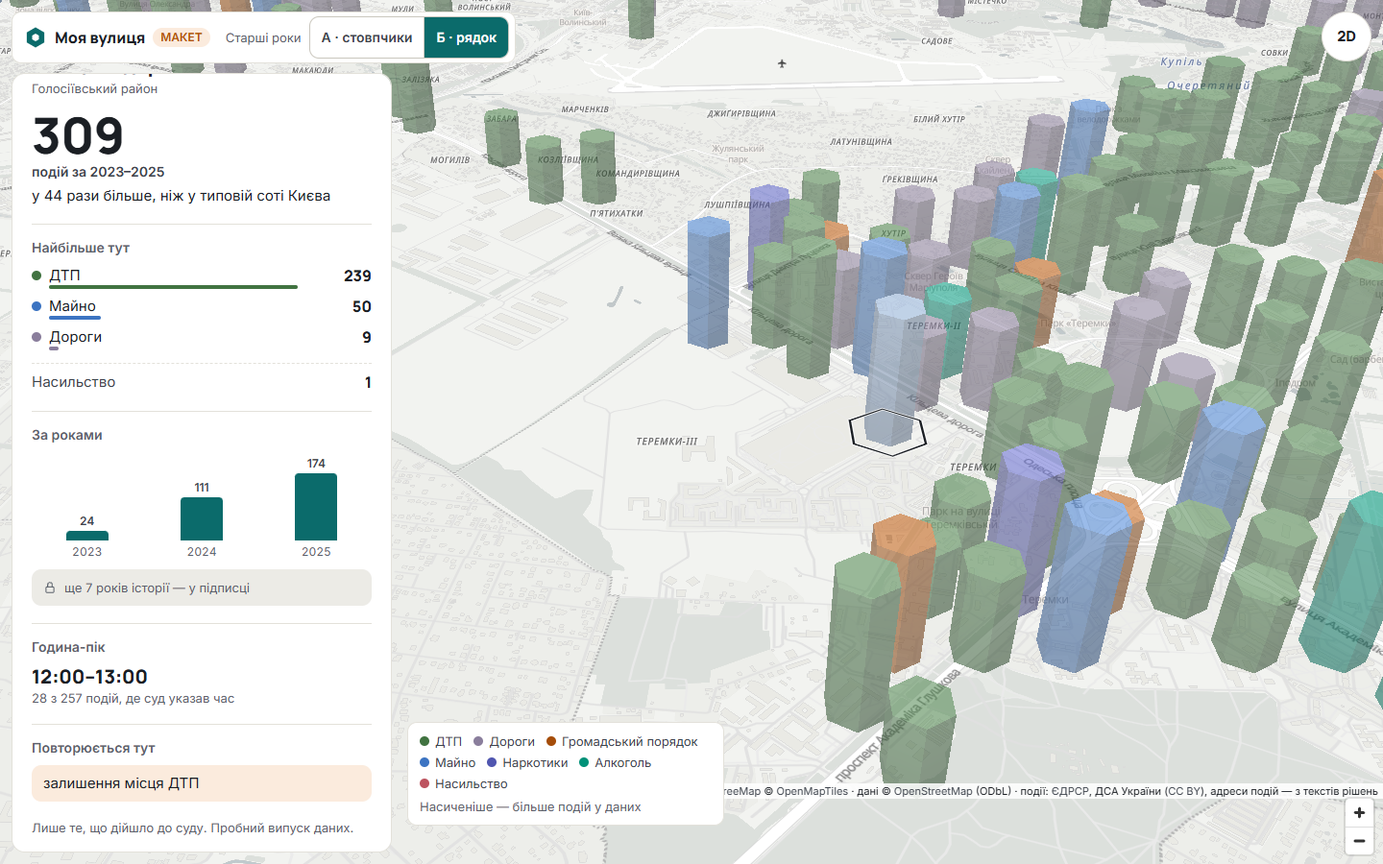
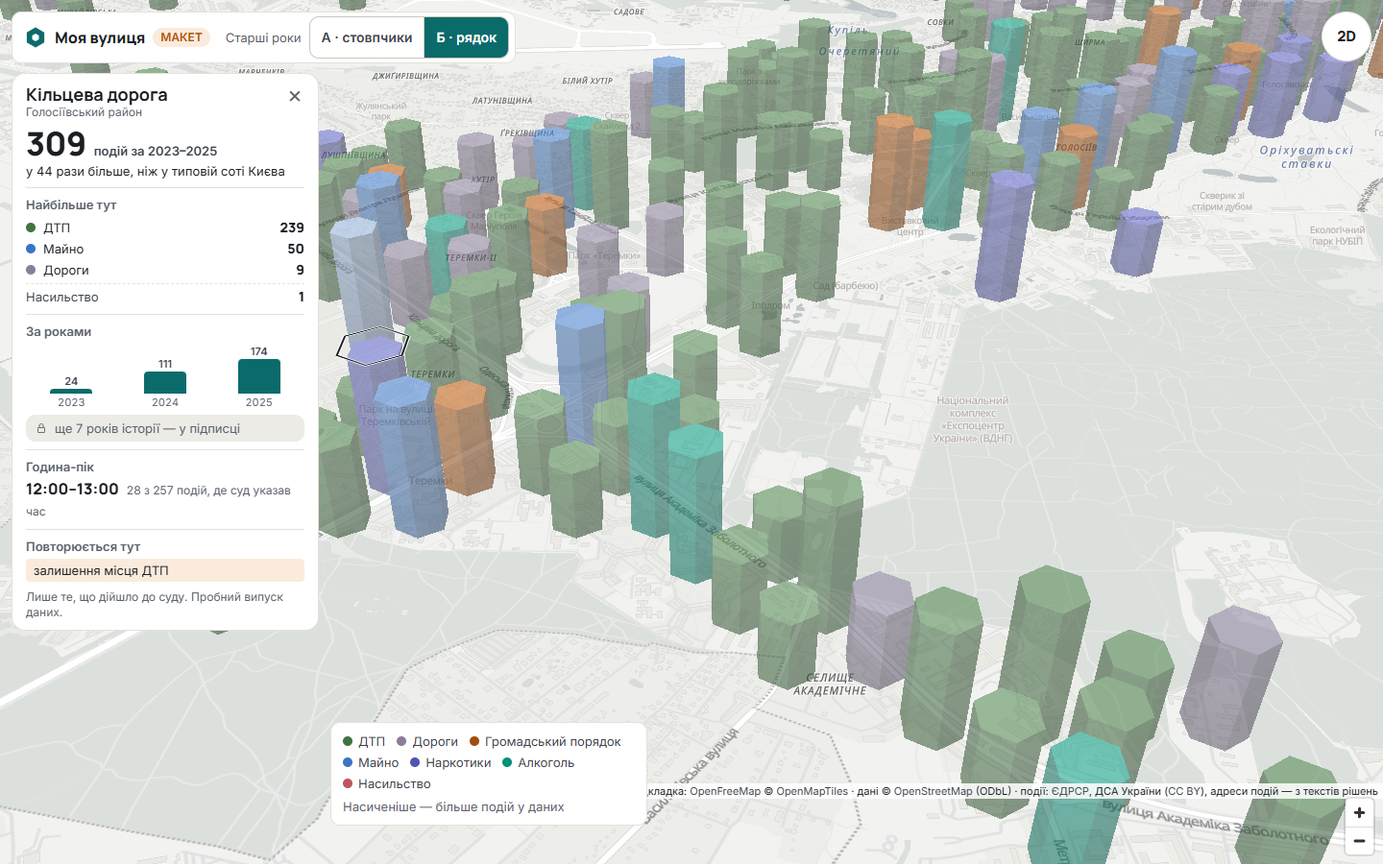
Макет М1: компактна картка, зсув з-під картки, шторка
Картка 320 px без прокрутки на ноутбуці; клік не рухає карту, якщо
сота не під карткою; шторка тягнеться вгору; оновлено знімки.

diff --git a/maket/m1/index.html b/maket/m1/index.html
@@ -20,7 +20,7 @@
  --line:#E3E1DA;--line-strong:#C9C6BD;--accent:#0B6B6B;--accent-soft:#D7EBEA;--on-accent:#FFFFFF;
  --attention:#B45309;--attention-soft:#FBEBDD;--data-city:#A9ADB4;
  --radius-s:4px;--radius-m:10px;--radius-l:14px;--radius-pill:999px;
- --disp:Manrope,Inter,system-ui,sans-serif;--sans:Inter,system-ui,sans-serif;--shyryna:396px}
+ --disp:Manrope,Inter,system-ui,sans-serif;--sans:Inter,system-ui,sans-serif;--shyryna:320px}
 *{box-sizing:border-box}
 html,body{margin:0;height:100%;background:var(--ground);color:var(--ink);font:400 15px/22px var(--sans)}
 #map{position:fixed;inset:0;background:#f4f4f2}
@@ -45,45 +45,50 @@ button:focus-visible,a:focus-visible{outline:2px solid var(--accent);outline-off
 #lehenda li{display:flex;align-items:center;gap:6px;font:400 13px/18px var(--sans);color:var(--ink-2)}
 .krap{flex:none;width:10px;height:10px;border-radius:50%}
 #lehenda p{margin:6px 0 0;font:400 13px/18px var(--sans);color:var(--muted)}
-#kartka{position:absolute;z-index:6;left:12px;top:76px;bottom:12px;width:var(--shyryna);padding:16px 20px 16px;overflow-y:auto;overscroll-behavior:contain;border-radius:var(--radius-l)}
+/* На ноутбуці картка без вкладеної прокрутки: висота — скільки треба (рішення 25 карти Києва). */
+#kartka{position:absolute;z-index:6;left:12px;top:76px;max-height:calc(100% - 88px);width:var(--shyryna);padding:10px 14px;overflow-y:auto;overscroll-behavior:contain;border-radius:var(--radius-l)}
+.k-ruchka{display:none}
 .k-shap{display:flex;align-items:flex-start;gap:8px}
 .k-shap>div{flex:1;min-width:0}
-.k-shap h2{margin:0;font:800 20px/26px var(--disp)}
-.k-shap p{margin:2px 0 0;font:400 13px/18px var(--sans);color:var(--muted)}
-.k-x{flex:none;width:44px;height:44px;margin:-8px -10px 0 0;border:0;background:none;font-size:24px;line-height:24px;color:var(--muted)}
-.velyke{margin-top:12px;font:800 52px/56px var(--disp);letter-spacing:-.5px}
-.pid{font:600 14px/20px var(--sans);color:var(--ink-2)}
-.por{margin:4px 0 0;font:400 15px/22px var(--sans);color:var(--ink)}
-.malo{margin-top:16px;padding:16px;background:var(--surface-tint);border-radius:var(--radius-m)}
-.malo b{display:block;font:800 20px/26px var(--disp)}
-.malo span{font:400 15px/22px var(--sans);color:var(--ink-2)}
-.blok{margin-top:18px;padding-top:14px;border-top:1px solid var(--line)}
-.blok h3{margin:0 0 8px;font:600 14px/20px var(--sans);color:var(--muted)}
-.hr{display:grid;grid-template-columns:10px 1fr auto;align-items:center;column-gap:8px;min-height:28px}
-.hr b{font:800 16px/20px var(--disp)}
-.hr i{grid-column:2/4;display:block;height:4px;border-radius:2px;margin:-1px 0 7px}
-.nas{display:flex;justify-content:space-between;align-items:center;min-height:32px;margin-top:6px;padding-top:6px;border-top:1px dashed var(--line);color:var(--ink-2)}
-.nas b{font:800 16px/20px var(--disp);color:var(--ink)}
-.roky{display:flex;align-items:flex-end;gap:4px}
-.r{flex:1 1 0;min-width:0;display:flex;flex-direction:column;align-items:center;justify-content:flex-end;height:112px}
-.r em{font:600 12px/16px var(--sans);font-style:normal;color:var(--ink-2)}
-.r u{display:block;width:100%;max-width:44px;margin:2px 0 4px;background:var(--accent);border-radius:var(--radius-s) var(--radius-s) 0 0;text-decoration:none}
-.r span{font:400 12px/16px var(--sans);color:var(--muted);font-variant-numeric:tabular-nums}
+.k-shap h2{margin:0;font:700 18px/22px var(--disp)}
+.k-shap p{margin:0;font:400 12px/16px var(--sans);color:var(--muted)}
+.k-x{flex:none;width:36px;height:36px;margin:-6px -8px 0 0;border:0;background:none;font-size:24px;line-height:24px;color:var(--muted)}
+.chyslo{display:flex;align-items:baseline;gap:8px;margin-top:4px}
+.velyke{font:800 34px/40px var(--disp);letter-spacing:-.5px}
+.pid{font:600 13px/18px var(--sans);color:var(--ink-2)}
+.por{margin:0;font:400 13px/18px var(--sans);color:var(--ink)}
+.malo{margin-top:8px;padding:12px;background:var(--surface-tint);border-radius:var(--radius-m)}
+.malo b{display:block;font:800 18px/24px var(--disp)}
+.malo span{font:400 13px/18px var(--sans);color:var(--ink-2)}
+.blok{margin-top:8px;padding-top:8px;border-top:1px solid var(--line)}
+.blok h3{margin:0 0 4px;font:600 13px/18px var(--sans);color:var(--muted)}
+.hr{display:grid;grid-template-columns:10px 1fr auto;align-items:center;column-gap:8px;min-height:22px;font:400 13px/18px var(--sans)}
+.hr b{font:800 14px/18px var(--disp)}
+.nas{display:flex;justify-content:space-between;align-items:center;min-height:24px;margin-top:3px;padding-top:3px;font:400 13px/18px var(--sans);border-top:1px dashed var(--line);color:var(--ink-2)}
+.nas b{font:800 14px/18px var(--disp);color:var(--ink)}
+.roky{display:flex;align-items:flex-end;gap:3px}
+.r{flex:1 1 0;min-width:0;display:flex;flex-direction:column;align-items:center;justify-content:flex-end;height:68px}
+.r em{font:600 11px/14px var(--sans);font-style:normal;color:var(--ink-2)}
+.r u{display:block;width:100%;max-width:44px;margin:1px 0 2px;background:var(--accent);border-radius:var(--radius-s) var(--radius-s) 0 0;text-decoration:none}
+.r span{font:400 11px/14px var(--sans);color:var(--muted);font-variant-numeric:tabular-nums}
 .r.zamok u{background:var(--data-city);opacity:.55}
 .r.zamok svg{color:var(--muted)}
-.zamok-ryadok{display:flex;align-items:center;gap:8px;margin-top:10px;padding:10px 12px;border-radius:var(--radius-m);background:#ECEBE6;color:var(--muted);font:400 13px/18px var(--sans)}
-.pidpys-sir{margin:6px 0 0;font:400 13px/18px var(--sans);color:var(--muted)}
-.pik b{font:800 20px/26px var(--disp)}
-.pik span{display:block;font:400 13px/18px var(--sans);color:var(--muted)}
+.zamok-ryadok{display:flex;align-items:center;gap:8px;margin-top:6px;padding:5px 10px;border-radius:var(--radius-m);background:#ECEBE6;color:var(--muted);font:400 13px/18px var(--sans)}
+.pidpys-sir{margin:3px 0 0;font:400 12px/16px var(--sans);color:var(--muted)}
+.pik b{font:800 16px/20px var(--disp)}
+.pik span{margin-left:8px;font:400 12px/16px var(--sans);color:var(--muted)}
+.pik span:first-child{margin-left:0}
 .povt{margin:0;padding:0;list-style:none}
-.povt li{padding:8px 12px;margin-top:6px;border-radius:var(--radius-m);background:var(--attention-soft);font:400 15px/22px var(--sans)}
-.mezha{margin:18px 0 0;font:400 13px/18px var(--sans);color:var(--muted)}
+.povt li{padding:3px 8px;margin-top:3px;border-radius:var(--radius-s);background:var(--attention-soft);font:400 13px/18px var(--sans)}
+.povt li:first-child{margin-top:0}
+.mezha{margin:8px 0 0;font:400 12px/16px var(--sans);color:var(--muted)}
 .k-tip .maplibregl-popup-content{padding:6px 10px;border-radius:var(--radius-m);border:1px solid var(--line);box-shadow:none;font:400 13px/18px var(--sans)}
 .k-tip .maplibregl-popup-tip{display:none}
 .maplibregl-ctrl-attrib{font:400 11px/16px var(--sans);background:rgba(255,255,255,.86)!important}
 .maplibregl-ctrl-attrib a{color:var(--ink-2)}
 .k-atr-i{display:none;background:none;border:0;color:var(--muted);font-size:15px;min-width:44px;min-height:44px}
-@media (min-width:701px){body.k-vidkr #lehenda{left:424px;bottom:40px}}
+@media (min-width:701px){body.k-vidkr #lehenda{left:344px;bottom:40px}}
+@media (prefers-reduced-motion:reduce){#kartka{transition:none!important}}
 @media (max-width:700px){
  #verkh{left:8px;right:68px;top:8px;gap:8px;padding:2px 4px 2px 10px;justify-content:space-between}
  .znak span.nazva{display:none}
@@ -95,11 +100,21 @@ button:focus-visible,a:focus-visible{outline:2px solid var(--accent);outline-off
  #lehenda li,#lehenda p{font-size:12px;line-height:16px}
  body.k-vidkr #lehenda{display:none}
  /* Шторка — як у карті Києва (S-К.21): пів екрана, гортається вся картка; дотик до шапки — на весь екран. */
- #kartka{left:0;right:0;top:auto;bottom:0;width:auto;height:50vh;font-size:14px;border-radius:var(--radius-l) var(--radius-l) 0 0;border-width:1px 0 0;padding:14px 20px calc(16px + env(safe-area-inset-bottom))}
+ #kartka{left:0;right:0;top:auto;bottom:0;width:auto;height:50vh;max-height:none;font-size:14px;border-radius:var(--radius-l) var(--radius-l) 0 0;border-width:1px 0 0;padding:0 20px calc(16px + env(safe-area-inset-bottom));transition:height .2s}
+ #kartka.tyagnu{transition:none}
  #kartka.vysoka{height:calc(100% - 8px)}
- .velyke{font-size:34px;line-height:40px;margin-top:6px}
- .por{font-size:14px;line-height:20px}
- .k-shap{cursor:pointer}
+ .k-ruchka{display:block;height:20px;margin:0 -20px;touch-action:none;cursor:grab;position:relative}
+ .k-ruchka::after{content:'';position:absolute;left:50%;top:8px;width:40px;height:4px;margin-left:-20px;border-radius:2px;background:var(--line-strong)}
+ .k-shap{touch-action:none;cursor:grab}
+ .k-shap h2{font-size:20px;line-height:26px}
+ .k-shap p{font-size:13px;line-height:18px}
+ .k-x{width:44px;height:44px;margin:-8px -10px 0 0}
+ .por,.hr,.nas,.povt li{font-size:14px;line-height:20px}
+ .hr{min-height:30px}
+ .hr b,.nas b{font-size:16px;line-height:20px}
+ .blok{margin-top:12px;padding-top:10px}
+ .r em,.r span{font-size:12px;line-height:16px}
+ .r{height:76px}
  .k-atr-i{display:inline-block}
  .maplibregl-ctrl-attrib:not(.k-atr-vidkr) .maplibregl-ctrl-attrib-inner{display:none}
  .maplibregl-ctrl-attrib:not(.k-atr-vidkr){background:none!important}
@@ -200,8 +215,7 @@ function patchStyle(s){
    txt('metro','poi',13,['all',['==',['get','class'],'railway'],['in',['get','subclass'],['literal',['station','subway']]]],11,{'text-max-width':8,'text-offset':[0,.2]}))}
  return {...s,layers}}
 
-// Камера як у турі (S-К.30, MV-30): нахил 45–55°, плавна дуга, довгий переліт.
-const LIT_MS=3800, DUHA=1.6;
+// Нахил як у турі (S-К.30, MV-30): 45–55°.
 const pitch3d=(z=map.getZoom())=>Math.round(45+10*Math.min(1,Math.max(0,(z-10.6)/2.4)));
 const map=new maplibregl.Map({container:'map',center:[D.meta.centr[1],D.meta.centr[0]],zoom:telefon()?8.9:10,pitch:45,maxZoom:19,maxPitch:60,attributionControl:false});
 map.touchPitch.enable();
@@ -265,7 +279,7 @@ document.querySelector('.seg').addEventListener('click',e=>{const b=e.target.clo
 varianty();
 
 // ---- Картка соти за MV-32 ----
-const ZAMOK='<svg width="14" height="14" viewBox="0 0 24 24" fill="none" stroke="currentColor" stroke-width="1.75" stroke-linecap="round" stroke-linejoin="round" aria-hidden="true"><rect x="5" y="11" width="14" height="10" rx="2"/><path d="M8 11V7a4 4 0 0 1 8 0v4"/></svg>';
+const ZAMOK='<svg width="12" height="12" viewBox="0 0 24 24" fill="none" stroke="currentColor" stroke-width="1.75" stroke-linecap="round" stroke-linejoin="round" aria-hidden="true"><rect x="5" y="11" width="14" height="10" rx="2"/><path d="M8 11V7a4 4 0 0 1 8 0v4"/></svg>';
 const koma=x=>String(x).replace('.',',');
 // База — медіана сот 130 м (MV-36). Сота 330 м більша за площею, тож база для неї множиться на різницю площ.
 function porivnyannya(n,G){const baza=D.meta.mediana130*(G.R/130)**2, r=n/baza;
@@ -274,10 +288,10 @@ function porivnyannya(n,G){const baza=D.meta.mediana130*(G.R/130)**2, r=n/baza;
  const bilshe=r>1, x=bilshe?r:1/r, ok=x<10?Math.round(x*10)/10:Math.round(x), cile=Number.isInteger(ok);
  const slovo=!cile?'раза':pl(ok,'раз','рази','разів');
  return `у ${koma(ok)} ${slovo} ${bilshe?'більше':'менше'}, ${de}`}
-function stovpchyky(b){const r=D.meta.roky, mx=Math.max(1,...b.y), H=70;
+function stovpchyky(b){const r=D.meta.roky, mx=Math.max(1,...b.y), H=36, korotko=V==='a', pidp=y=>korotko?'’'+String(y).slice(2):y;
  const vilni=r.map((y,i)=>{const v=b.y[i], h=v?Math.max(4,Math.round(H*v/mx)):2;
-  return `<div class="r"><em>${fmt(v)}</em><u style="height:${h}px;${v?'':'background:var(--line-strong)'}"></u><span>${y}</span></div>`}).join('');
- if(V==='a'){const star=D.meta.stari.map(y=>`<div class="r zamok">${ZAMOK}<u style="height:34px"></u><span>${y}</span></div>`).join('');
+  return `<div class="r"><em>${fmt(v)}</em><u style="height:${h}px;${v?'':'background:var(--line-strong)'}"></u><span>${pidp(y)}</span></div>`}).join('');
+ if(V==='a'){const star=D.meta.stari.map(y=>`<div class="r zamok">${ZAMOK}<u style="height:18px"></u><span>${pidp(y)}</span></div>`).join('');
   return `<div class="roky">${star}${vilni}</div><p class="pidpys-sir">${D.meta.stari[0]}–${D.meta.stari[D.meta.stari.length-1]} — у підписці</p>`}
  return `<div class="roky">${vilni}</div><div class="zamok-ryadok">${ZAMOK}<span>ще ${D.meta.stari.length} років історії — у підписці</span></div>`}
 function namalyuvatyKartku(){const {G,b}=ZARAZ, el=$('#kartka'), m=D.meta;
@@ -288,40 +302,56 @@ function namalyuvatyKartku(){const {G,b}=ZARAZ, el=$('#kartka'), m=D.meta;
  }else{
   const NAS=HRUPY.findIndex(h=>h[0]==='nas');
   const top=b.g.map((v,i)=>[v,i]).filter(x=>x[1]!==NAS&&x[0]>0).sort((x,y)=>y[0]-x[0]).slice(0,3);
-  const ryadky=top.map(([v,i])=>`<div class="hr"><span class="krap" style="background:${HRUPY[i][2]}"></span><span>${esc(HRUPY[i][1])}</span><b>${fmt(v)}</b><i style="width:${Math.max(2,Math.round(100*v/b.n))}%;background:${HRUPY[i][2]}"></i></div>`).join('');
+  const ryadky=top.map(([v,i])=>`<div class="hr"><span class="krap" style="background:${HRUPY[i][2]}"></span><span>${esc(HRUPY[i][1])}</span><b>${fmt(v)}</b></div>`).join('');
   const nas=b.g[NAS]>0?`<div class="nas"><span>Насильство</span><b>${fmt(b.g[NAS])}</b></div>`:'';
   const pik=b.chasN>=5
    ?`<div class="pik"><b>${String(b.pik).padStart(2,'0')}:00–${String((b.pik+1)%24).padStart(2,'0')}:00</b><span>${fmt(b.pikN)} з ${fmt(b.chasN)} ${pl(b.chasN,'події','подій','подій')}, де суд указав час</span></div>`
    :`<div class="pik"><span>Мало даних про час</span></div>`;
   const povt=b.pr.length?`<section class="blok"><h3>Повторюється тут</h3><ul class="povt">${b.pr.map(i=>`<li>${esc(D.problemy[i])}</li>`).join('')}</ul></section>`:'';
-  tilo=`<div class="velyke">${fmt(b.n)}</div><div class="pid">${pl(b.n,'подія','події','подій')} за ${esc(m.period)}</div>
+  tilo=`<div class="chyslo"><div class="velyke">${fmt(b.n)}</div><div class="pid">${pl(b.n,'подія','події','подій')} за ${esc(m.period)}</div></div>
    <p class="por">${porivnyannya(b.n,G)}</p>
    <section class="blok"><h3>Найбільше тут</h3>${ryadky}${nas}</section>
    <section class="blok"><h3>За роками</h3>${stovpchyky(b)}</section>
    <section class="blok"><h3>Година-пік</h3>${pik}</section>${povt}`;
  }
- el.innerHTML=`<div class="k-shap"><div><h2>${esc(nazva)}</h2>${rayon?`<p>${esc(rayon)}</p>`:''}</div><button class="k-x" type="button" aria-label="Закрити">×</button></div>${tilo}
+ el.innerHTML=`<div class="k-ruchka"></div><div class="k-shap"><div><h2>${esc(nazva)}</h2>${rayon?`<p>${esc(rayon)}</p>`:''}</div><button class="k-x" type="button" aria-label="Закрити">×</button></div>${tilo}
   <p class="mezha">Лише те, що дійшло до суду. Пробний випуск даних.</p>`;
 }
 function zakryty(){ if(!ZARAZ) return;
  map.setFeatureState({source:'k-col-'+ZARAZ.G.id,id:ZARAZ.b.k},{sel:false});
  map.getSource('k-hexsel').setData({type:'FeatureCollection',features:[]});
  ZARAZ=null; const el=$('#kartka'); el.hidden=true; el.classList.remove('vysoka'); document.body.classList.remove('k-vidkr')}
-function vidkryty(G,b,polit=true){zakryty(); ZARAZ={G,b};
+// Сота під карткою — карта зсувається рівно настільки, щоб вийшла з-під неї; зум і нахил не міняються (Андрій, 09.11).
+// Зсув рахуємо по землі: на нахиленій карті той самий рух у пікселях зсував би край соти інакше.
+function zPidKartky(G,b){const el=$('#kartka'), m=map.getContainer().getBoundingClientRect(), k=el.getBoundingClientRect(), ZAZOR=16;
+ const v=hexPoly(b.cx,b.cy,G.R,1)[0].map(p=>map.project(p)), xs=v.map(q=>q.x), ys=v.map(q=>q.y);
+ let A,B;
+ if(telefon()){const verh=k.top-m.top, nyz=Math.max(...ys); if(nyz<=verh) return;
+  const x=(Math.min(...xs)+Math.max(...xs))/2; A=[x,nyz]; B=[x,verh-ZAZOR]}
+ else{const prav=k.right-m.left, liv=Math.min(...xs), y=(Math.min(...ys)+Math.max(...ys))/2;
+  if(liv>=prav||Math.min(...ys)>=k.bottom-m.top||Math.max(...ys)<=k.top-m.top) return;
+  A=[liv,y]; B=[prav+ZAZOR,y]}
+ const a=map.unproject(A), c=map.unproject(B), o=map.getCenter();
+ map.easeTo({center:[o.lng+a.lng-c.lng,o.lat+a.lat-c.lat],duration:TYKHO?0:700,essential:true})}
+function vidkryty(G,b){zakryty(); ZARAZ={G,b};
  const el=$('#kartka'); el.hidden=false; el.scrollTop=0; document.body.classList.add('k-vidkr'); namalyuvatyKartku();
  map.setFeatureState({source:'k-col-'+G.id,id:b.k},{sel:true});
  map.getSource('k-hexsel').setData({type:'Feature',geometry:{type:'LineString',coordinates:hexPoly(b.cx,b.cy,G.R,1)[0]}});
- if(!polit) return;
- // S-К.18, S-К.21: сота не під карткою — збоку на ПК, над шторкою на телефоні.
- // Переліт лишається в межах зуму цієї соти: 330 м не ближче за поріг, де з'являються 130 м.
- const z0=map.getZoom(), zz=G.id==='L'?Math.min(POROH-.4,Math.max(z0,11.7)):Math.max(z0,14);
- const zsuv=telefon()?[0,-Math.round(innerHeight*.25)]:[Math.round((el.offsetWidth+12)/2),0];
- map.flyTo({center:[b.cx/MX_,b.cy/MY_],zoom:zz,pitch:MODE==='stovp'?pitch3d(zz):0,offset:zsuv,duration:TYKHO?0:LIT_MS,curve:DUHA,essential:true})}
-MAKET.vidkryty=(id,k,polit)=>vidkryty(HEXG.find(G=>G.id===id),HEXB[id].get(k),polit);
+ zPidKartky(G,b)}
+MAKET.vidkryty=(id,k)=>vidkryty(HEXG.find(G=>G.id===id),HEXB[id].get(k));
 MAKET.zakryty=zakryty;
+MAKET.varianty=v=>{V=v; varianty()};
+// Шторка на телефоні: відкривається до половини, тягнеться вгору за ручку чи шапку; дотик — на весь екран і назад.
+{const el=$('#kartka'); let st=null;
+ el.addEventListener('pointerdown',e=>{if(!telefon()||e.target.closest('.k-x')||!e.target.closest('.k-ruchka,.k-shap')) return;
+  st={y:e.clientY,h:el.offsetHeight,rukh:false}; el.setPointerCapture(e.pointerId); el.classList.add('tyagnu')});
+ el.addEventListener('pointermove',e=>{if(!st) return; const dy=st.y-e.clientY; if(Math.abs(dy)>4) st.rukh=true;
+  if(st.rukh) el.style.height=Math.min(innerHeight-8,Math.max(innerHeight*.5,st.h+dy))+'px'});
+ const kin=()=>{if(!st) return; const vys=st.rukh?el.offsetHeight>innerHeight*.75:!el.classList.contains('vysoka');
+  st=null; el.classList.remove('tyagnu'); el.style.height=''; el.classList.toggle('vysoka',vys)};
+ el.addEventListener('pointerup',kin); el.addEventListener('pointercancel',kin)}
 $('#kartka').addEventListener('click',e=>{
- if(e.target.closest('.k-x')) return zakryty();
- if(telefon()&&e.target.closest('.k-shap')) $('#kartka').classList.toggle('vysoka')});
+ if(e.target.closest('.k-x')) zakryty()});
 addEventListener('keydown',e=>{if(e.key==='Escape') zakryty()});
 
 // ---- Клік і наведення; дотик — найближче в 20 px (S-К.21) ----

diff --git a/tests/test_maket_m1.py b/tests/test_maket_m1.py
@@ -50,6 +50,11 @@ class StorinkaMaketa(unittest.TestCase):
         self.assertIn('data-v="b"', self.html)
         self.assertIn('років історії — у підписці', self.html)
 
+    def test_kartka_vuzka_i_bez_pereletu(self):
+        self.assertIn('--shyryna:320px', self.html)
+        self.assertNotIn('flyTo', self.html)
+        self.assertIn('duration:TYKHO?0:700', self.html)
+
     def test_lokalni_fajly_ye(self):
         for shlyakh in re.findall(r'(?:href|url\()=?"?((?:vendor|shryfty)/[^")\s]+)', self.html):
             self.assertTrue((MAKET / shlyakh).is_file(), shlyakh)

diff --git a/ZVIT-M1.md b/ZVIT-M1.md
@@ -49,10 +49,26 @@ python -m http.server 8731 --directory maket/m1
 
 ## Відхилення й дрібні рішення
 
-- Нахил 45–55° на всіх зумах (MV-30), а не 55→20° із S-К.4. Обертання камери при перельоті немає.
+- Нахил 45–55° на всіх зумах (MV-30), а не 55→20° із S-К.4. Перельоту при кліку немає (доповнення від 09.11, нижче).
 - Стовпчики 130 м нижчають із зуму 14: там, де в карті Києва вже 30 м, вони закривали квартал.
 - У 3D, як у карті Києва, стовпчики лише для сот не менших за медіану; решта видно у 2D.
 - «Повторюється тут» — проблема з щонайменше 2 подіями в соті. У пробному випуску таких сот 130 м лише 77. Частина назв — це назви груп («Громадський порядок», «Майнові»), бо так записано у випуску.
 - 39 чутливих подій точки не мають і в суми не входять; 2 006 подій із точкою не мають дати.
 - Найбільші соти — транспортні вузли й дороги (Кільцева, Палац спорту). Відбір подій макет не змінював.
 - База лежить у `data/vypusk/`, у git не потрапляє.
+
+## Доповнення від 09.11
+
+Доповнення прийшло з поміткою «до М2», але тексту завдання М2 виконавець не отримував, тому зроблено в цьому макеті.
+
+| Вимога | Результат перевірки |
+|---|---|
+| Картка без прокрутки, 320 px | Відкрито всі соти в обох варіантах (11 326 карток) на 1366×768 і 1440×900: прокрутки немає жодного разу. Найвища картка 675 px із 680 доступних на 1366×768 |
+| Сота видна, не під карткою | Центр карти не змінився |
+| Сота під карткою | Зсув 700 мс за налаштуванням (у браузері без відеокарти виміряно 876–896 мс на ПК, 734 мс на телефоні); зум і нахил незмінні; після зсуву зазор 16–19 px |
+| `prefers-reduced-motion` | Зсув без анімації, 30 мс |
+| Шторка | Відкривається на 422 із 844 px, тягнеться вгору до 836 px і назад; дотик по шапці теж перемикає. Перевірено в емуляції |
+
+Роки у варіанті А підписані коротко (’16…’25), бо десять повних підписів не вміщуються в 320 px. Тести: 200, падінь немає, 30 пропущено.
+
+**Брандмауер.** Виконавець правила не міняв: це налаштування безпеки системи, його робить власник ПК. Wi-Fi у Windows позначено як «Публічна», і для цього `python.exe` уже є дозвіл вхідних з'єднань у цьому профілі, створений раніше. Перевірка на справжньому телефоні ще не проведена.
